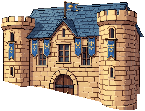
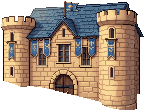
Scène du Château : les étapes de l'hôtel de ville, la salle du village plus douce
La salle du village repeinte plus douce (elle était « croustillante »), puis l'hôtel de ville, le grand hôtel de ville
et le capitole peints d'après elle, chacun d'après le précédent pour le capitole (PixelLab « retoucher », choix de
l'utilisateur). Les quatre à la même place, 40 pixels plus haute pour la tour et le dôme ; ville_scene.py prend pour les
étapes la place, les masques, l'ombre et le décor de devant de la salle du village (MEME_PLACE).

diff --git a/tools/art/ville_scene.py b/tools/art/ville_scene.py
@@ -44,6 +44,10 @@ def bande(im):
     return im.crop((0, HAUT, im.width, HAUT + HAUTEUR))
 
 
+# les étapes d'un bâtiment peintes à la même place, sans maquette à elles (peints/<id>.png, à la taille de la première) :
+# la place, les masques, l'ombre et le décor de devant sont ceux de la première
+MEME_PLACE = {"hotel-ville": "salle-village", "grand-hotel-ville": "salle-village", "capitole": "salle-village"}
+
 # les bâtiments dont le pied coupé par la colline finit en touffes (sur d'autres, elles mangeaient des détails peints :
 # les bouteilles sous l'étal du marché)
 TOUFFES = {"tour-griffons"}
@@ -109,6 +113,9 @@ def main():
     dest = os.path.join(racine, "godot", "art", "towns", faction)
     os.makedirs(dest, exist_ok=True)
     places = {k: v for k, v in json.load(open(os.path.join(src, "places.json"))).items() if k not in ("sol", "decor")}
+    for k, premier in MEME_PLACE.items():
+        if premier in places:
+            places[k] = places[premier]
     ids = [k for k in places if os.path.exists(os.path.join(src, "peints", k + ".png"))]
 
     # le fond : composer_scene.py sans aucun bâtiment (montagnes, sol, ombres du décor, décor), ramené à sa vraie taille
@@ -139,9 +146,9 @@ def main():
 
     batiments = []
     for k in sorted(ids, key=lambda k: -places[k]["profondeur"]):
-        p = places[k]
+        p, m = places[k], MEME_PLACE.get(k, k)  # m : le nom de ses masques
         b = Image.open(os.path.join(src, "peints", k + ".png")).convert("RGBA").crop((0, 0, p["largeur"], p["hauteur"]))
-        toile = Image.new("RGBA", decor.size); toile.alpha_composite(sans_miettes(sous_le_sol(src, k, p, b)), (p["x"], p["y"]))
+        toile = Image.new("RGBA", decor.size); toile.alpha_composite(sans_miettes(sous_le_sol(src, m, p, b)), (p["x"], p["y"]))
         if k in TOUFFES:
             touffes(src, k, toile, fond_haut)
         # ce qui a été peint en plus dans la scène, sur le sol visible (ajouts/<id>.png, 960 × 540) : la barrière et le
@@ -153,7 +160,7 @@ def main():
         im.save(os.path.join(dest, k + ".png"))
         entree = {"id": k, "x": x, "y": y, "depth": p["profondeur"]}
         # l'ombre : rien sous le décor (il la couvre) ; sur l'ombre du décor, seulement de quoi passer au ton fort
-        f = os.path.join(src, "ombres-contact", k + ".png")
+        f = os.path.join(src, "ombres-contact", m + ".png")
         if os.path.exists(f):
             t, td = tons(f).load(), ombre_decor.load()
             a = Image.new("L", decor.size, 0); ap = a.load()
@@ -173,8 +180,8 @@ def main():
         devant = Image.new("RGBA", decor.size)
         # plus, à 3 pixels au plus, là où le bâtiment peint déborde de sa maquette (le bord de la Tour des griffons sur le
         # toit de la maison) : seulement sur ce débord, pour ne pas montrer le décor caché derrière un autre bâtiment
-        seul = masque(os.path.join(src, "seul", k + ".png"))
-        vu = ImageChops.multiply(seul, decor_vu(k))
+        seul = masque(os.path.join(src, "seul", m + ".png"))
+        vu = ImageChops.multiply(seul, decor_vu(m))
         deborde = ImageChops.subtract(toile.getchannel("A").point(lambda v: 255 if v else 0), seul)
         vu = ImageChops.lighter(vu, ImageChops.multiply(vu.filter(ImageFilter.MaxFilter(7)), deborde))
         devant.paste(decor, (0, 0), ImageChops.multiply(vu, decor.getchannel("A")))

diff --git a/tests/HoMM.Core.Tests/SceneVilleTests.cs b/tests/HoMM.Core.Tests/SceneVilleTests.cs
@@ -15,12 +15,12 @@ public class SceneVilleTests
         TownScene.FromJson(File.ReadAllText(Path.Combine(Folder(faction), "scene.json")));
 
     /// <summary>
-    /// Les bâtiments du Château pas encore dessinés : ils prennent l'image de celui qu'ils remplacent (l'hôtel de ville,
-    /// celle de la salle du village), sauf le chantier naval, pas encore montré. À retirer de la liste une fois dessinés.
+    /// Les bâtiments du Château pas encore dessinés : ils prennent l'image de celui qu'ils remplacent (les guildes 2 à 4,
+    /// celle de la guilde 1), sauf le chantier naval, pas encore montré. À retirer de la liste une fois dessinés.
     /// </summary>
     private static readonly string[] CastleNotDrawn =
     {
-        "hotel-ville", "grand-hotel-ville", "capitole", "guilde-mages-2", "guilde-mages-3", "guilde-mages-4", "chantier-naval",
+        "guilde-mages-2", "guilde-mages-3", "guilde-mages-4", "chantier-naval",
     };
 
     [Fact]
